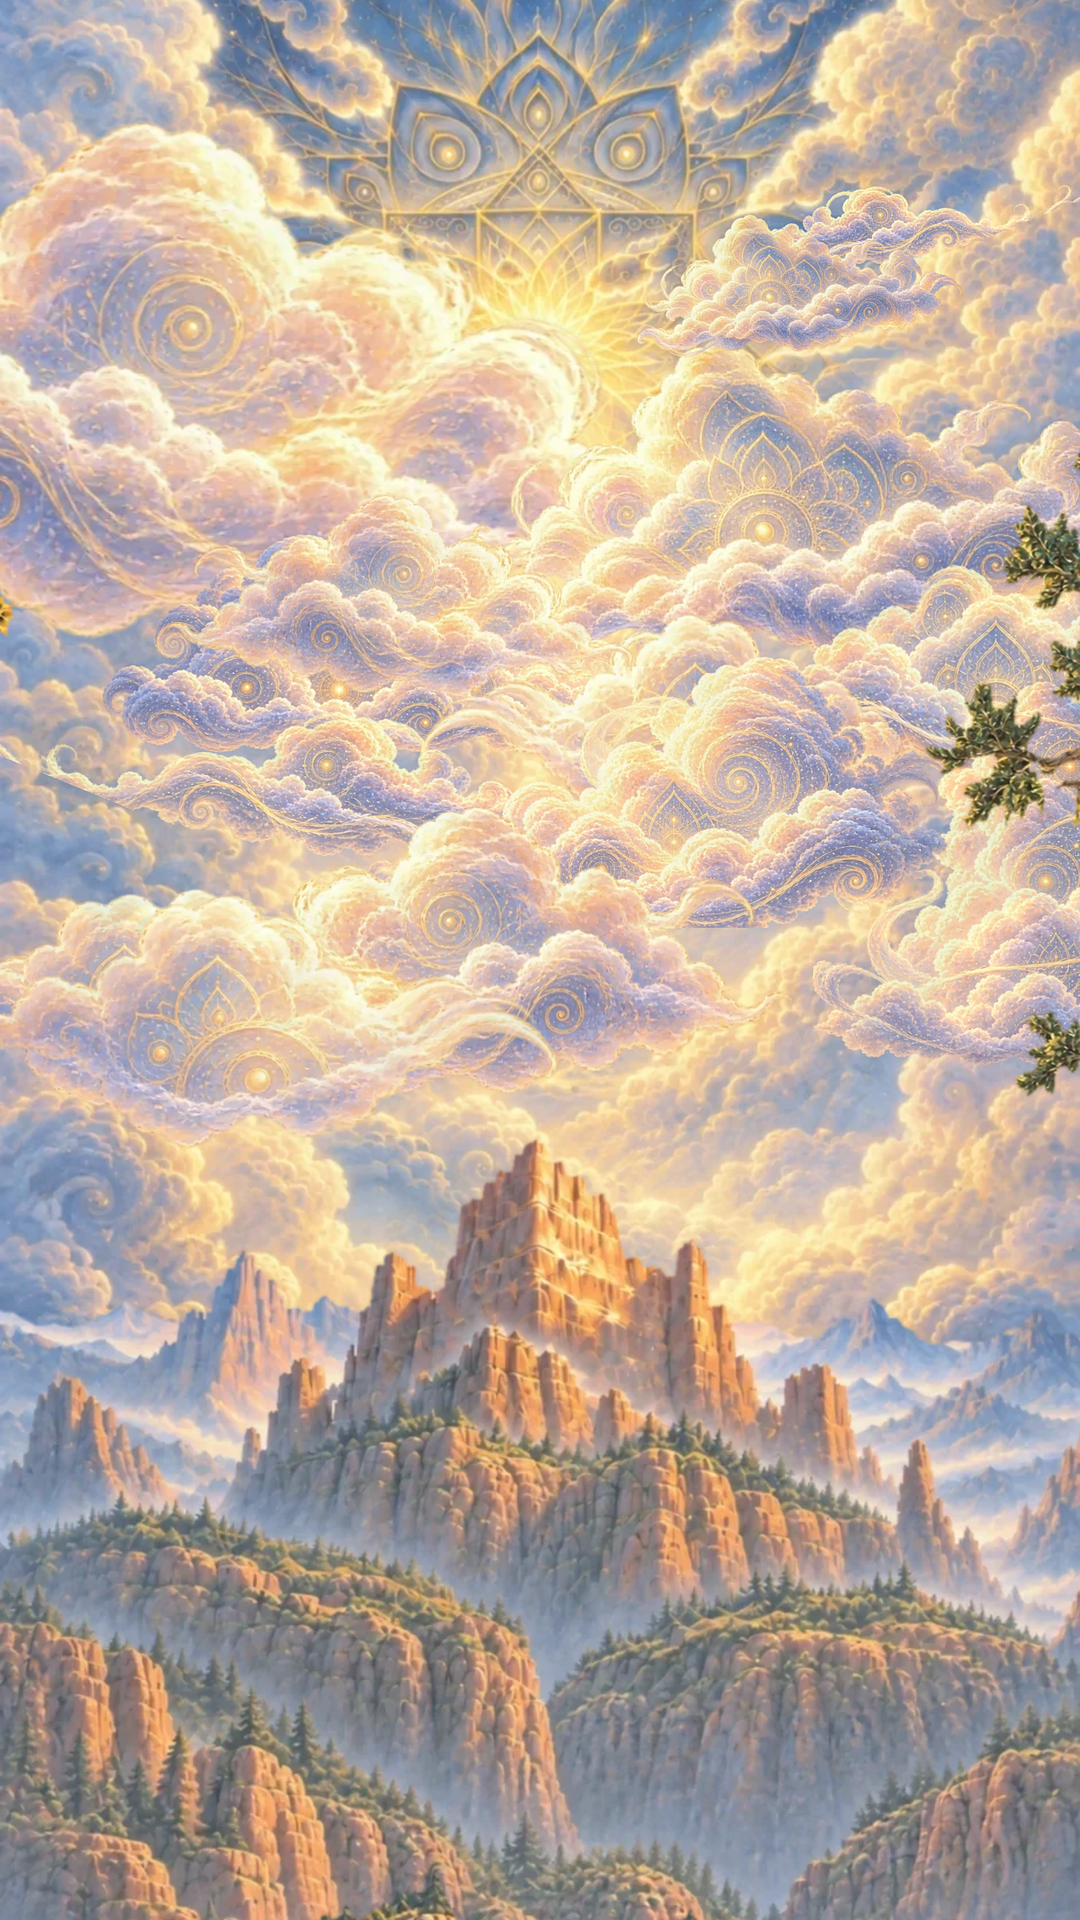
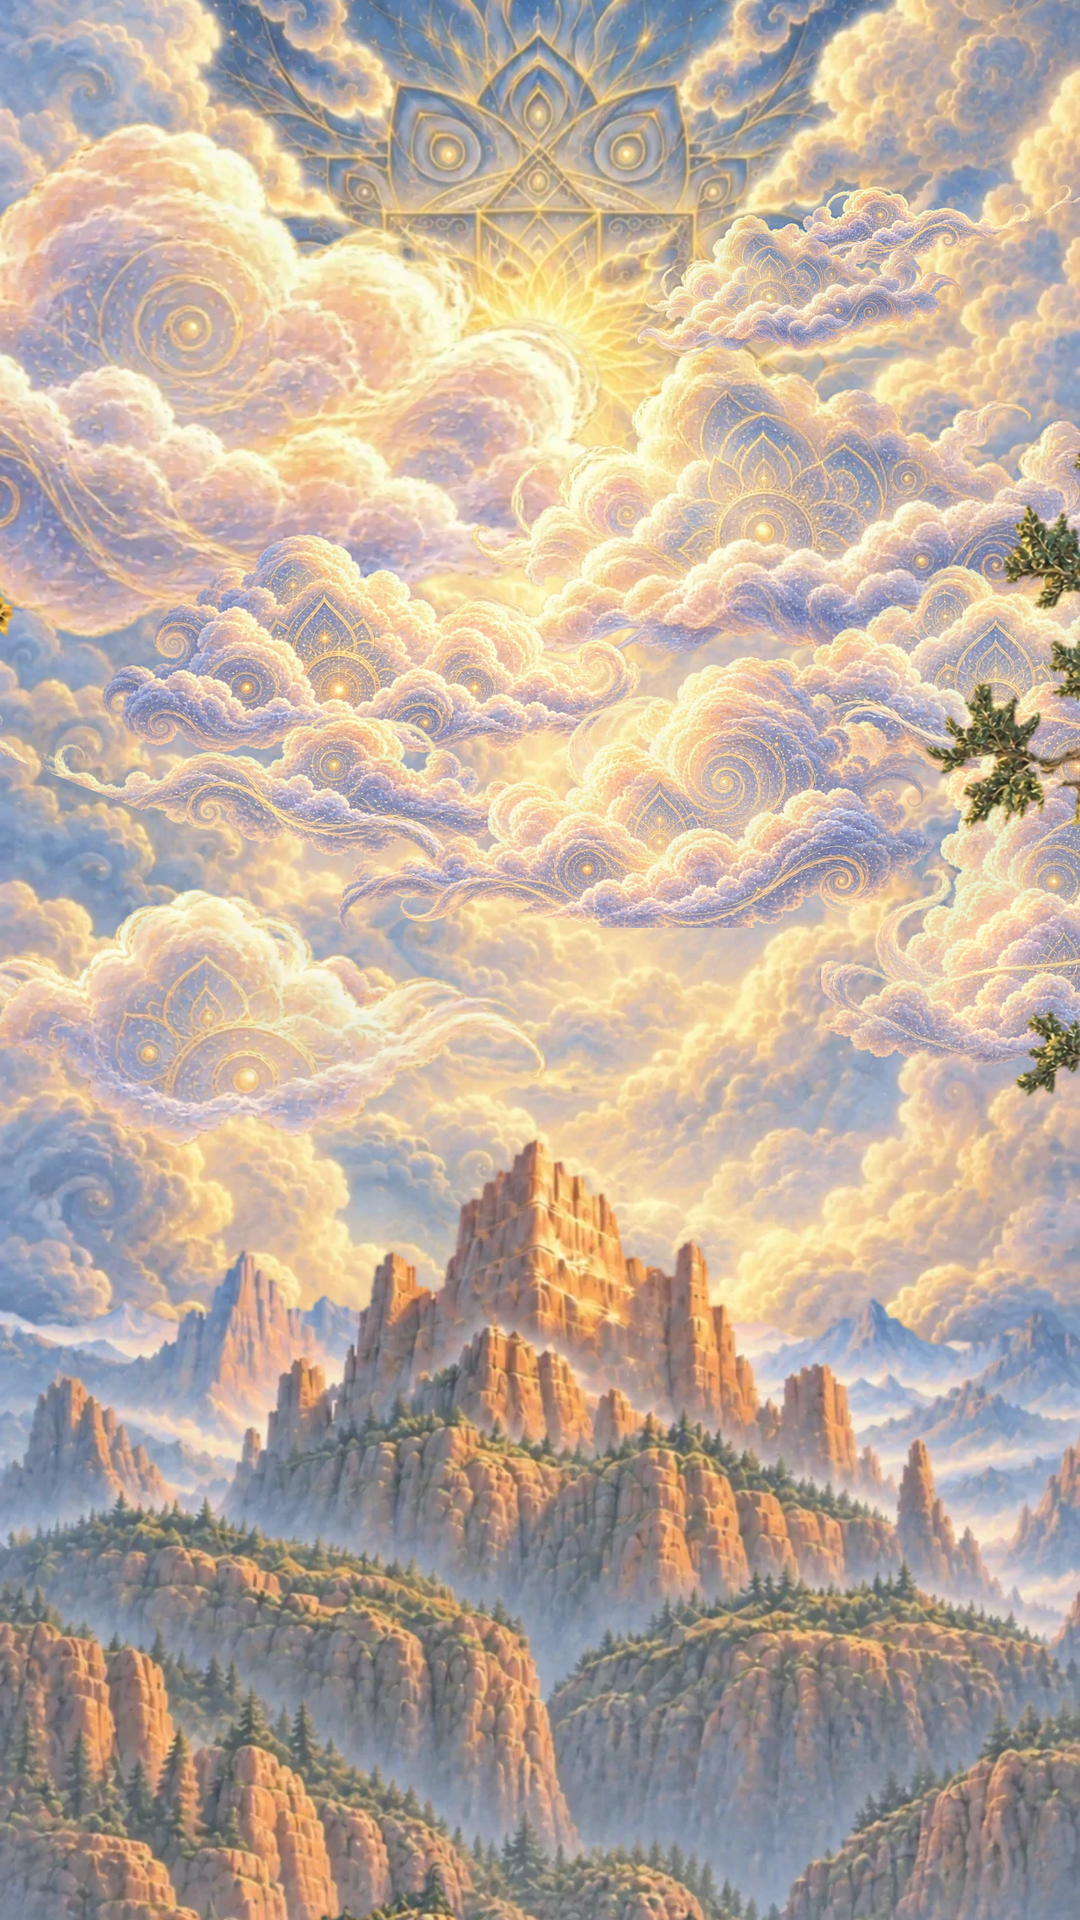
World v3: four mid-sized overlapping clouds removed (15 -> 11) for a lighter landing
Claude-Session: https://claude.ai/code/session_01X5u2D9a4RRbbCvwnE6RQKF

Changed region(s): [[0.0, 0.25, 1.0, 0.5938]]

diff --git a/prototype/world-v3-preview/trev-world-scroll.html b/prototype/world-v3-preview/trev-world-scroll.html
@@ -64,13 +64,9 @@ const CLOUDS = [ // ~60% of the sky above the rock covered, castle clear
   { src: "trev-cloud-d.webp", ar: 0.413, after: "mountains", depth: 0.35, w: 470, x0: 330, y0: 560, dir: -1, op: 0.97, spd: 0.54 },
   { src: "trev-cloud-b.webp", ar: 0.5, after: "mountains", depth: 0.35, w: 520, x0: 860, y0: 585, dir: 1, op: 0.9, spd: 0.37 },
   { src: "burnell-world-cloud-small.webp", after: "mountains", depth: 0.35, w: 416, x0: 134, y0: 864, dir: -1, op: 0.91, flip: true, spd: 0.06 },
-  { src: "burnell-world-cloud-small.webp", after: "falls", depth: 0.65, w: 412, x0: 564, y0: 624, dir: 1, op: 0.95, flip: true, spd: 0.51 },
   { src: "trev-cloud-c.webp", ar: 0.295, after: "falls", depth: 0.65, w: 560, x0: 170, y0: 700, dir: 1, op: 0.9, spd: 0.04 },
   { src: "trev-cloud-e.webp", ar: 1.018, after: "falls", depth: 0.65, w: 330, x0: 880, y0: 760, dir: 1, op: 0.9, spd: 0.07 },
-  { src: "burnell-world-cloud-small.webp", after: "falls", depth: 0.65, w: 428, x0: 152, y0: 871, dir: -1, op: 0.86, spd: 0.09 },
-  { src: "burnell-world-cloud-medium.webp", after: "foreground", depth: 1.0, w: 407, x0: 350, y0: 519, dir: -1, op: 0.84, spd: 0.42 },
   { src: "trev-cloud-a.webp", ar: 0.457, after: "foreground", depth: 1.0, w: 520, x0: 560, y0: 690, dir: 1, op: 0.95, flip: true, spd: 0.83 },
-  { src: "burnell-world-cloud-medium.webp", after: "foreground", depth: 1.0, w: 590, x0: 389, y0: 830, dir: 1, op: 0.93, flip: true, spd: 0.12 },
   { src: "burnell-world-cloud-small.webp", after: "foreground", depth: 1.0, w: 509, x0: 230, y0: 890, dir: -1, op: 0.86, spd: 0.22 },
 ];
 const world = document.getElementById("world");
